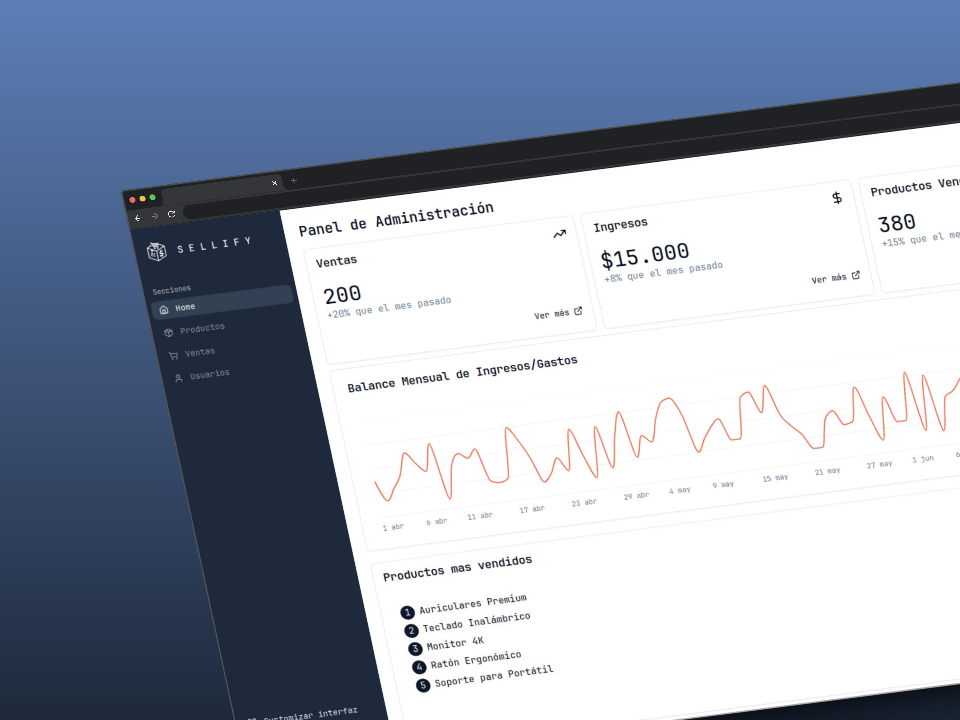
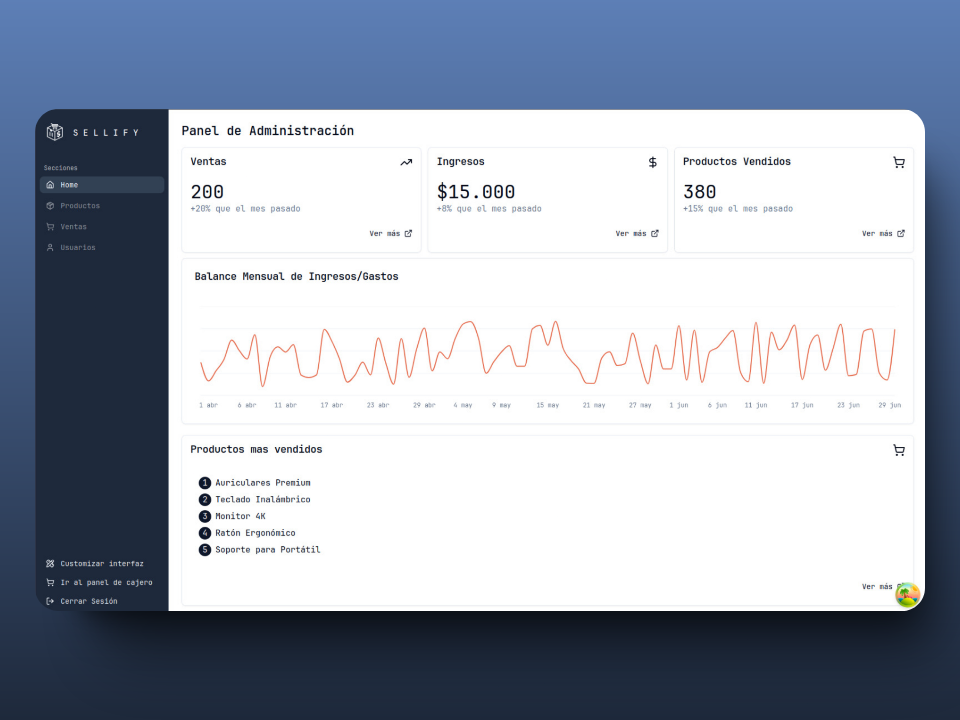
mejoras en las imagenes de proyectos + incorporacion de sellify

diff --git a/src/components/Projects/projects.ts b/src/components/Projects/projects.ts
@@ -1,6 +1,6 @@
 import { TAGS } from "./tags";
 
-interface Project {
+export interface Project {
   title: string;
   description: string;
   link: string;
@@ -8,47 +8,55 @@ interface Project {
   image: string;
   id: string;
   class: string;
-  live: boolean;
+  status: "live" | "soon" | "finished";
   tags: {
     name: string;
     class: string;
     icon: string;
-  } [];
+  }[];
 }
 
 export const projects: Project[] = [
   {
     title: "Url Shortener",
-    description: "Acortador de urls de código abierto desarrollado con fines educativos utilizando tecnologías web modernas.",
+    description:
+      "Acortador de urls de código abierto desarrollado con fines educativos utilizando tecnologías web modernas.",
     link: "https://url-shorteneer.vercel.app/",
     github: "https://github.com/vcntttt/url-shortener",
-    image: "url-shortener.png",
+    image: "url-shortenerv2.png",
     id: "url-shortener",
     class: "col-span-5",
-    live: true,
+    status: "live",
     tags: [TAGS.NEXT, TAGS.TAILWIND, TAGS.TYPESCRIPT, TAGS.PRISMA],
   },
-  // {
-  //   title: "Agenda Medica",
-  //   description: "",
-  //   link: "",
-  //   github: "",
-  //   image: "",
-  //   id: "",
-  //   class: "col-span-7",
-  //   live: false,
-  // },
-  // {
-  //   title: "Sellify",
-  //   description: "Sistema de gestión de inventario y punto de venta.",
-  //   link: "",
-  //   github: "https://github.com/vcntttt/Sellify-TI2",
-  //   image: "sellify.png",
-  //   id: "sellify",
-  //   class: "col-span-7",
-  //   live: false,
-  //   tags: [TAGS.NEXT, TAGS.TAILWIND],
-  // },
+  {
+    title: "Sellify",
+    description: "Sistema de gestión de inventario y punto de venta.",
+    link: "",
+    github: "https://github.com/vcntttt/Sellify-TI2",
+    image: "sellifyv2.png",
+    id: "sellify",
+    class: "col-span-7",
+    status: "finished",
+    tags: [
+      TAGS.REACT,
+      TAGS.TYPESCRIPT,
+      TAGS.TANSTACKQUERY,
+      TAGS.TAILWIND,
+      TAGS.SHADCN,
+    ],
+  },
+  {
+    title: "Agenda Medica",
+    description: "",
+    link: "",
+    github: "https://github.com/vcntttt/agenda-medica",
+    image: "on-develop.webp",
+    id: "",
+    class: "col-span-7",
+    status: "soon",
+    tags: [TAGS.NEXT, TAGS.TAILWIND, TAGS.TYPESCRIPT, TAGS.PRISMA, TAGS.SHADCN],
+  },
   // {
   //   title: "Recetas Sin Gluten",
   //   description: "Blog de recetas sin gluten.",
@@ -57,6 +65,6 @@ export const projects: Project[] = [
   //   image: "",
   //   id: "recetas-sin-gluten",
   //   class: "col-span-5",
-  //   live: false,
+  //   status: false,
   // },
 ];

diff --git a/src/components/Projects/tags.ts b/src/components/Projects/tags.ts
@@ -11,7 +11,7 @@ export const TAGS = {
   },
   REACT: {
     name: "React",
-    class: "bg-green-500 text-white",
+    class: "bg-green-950 text-white",
     icon: "React",
   },
   TYPESCRIPT: {
@@ -23,6 +23,11 @@ export const TAGS = {
     name: "Prisma",
     class: "bg-slate-900 text-white",
     icon: "Prisma",
+  },
+  TANSTACKQUERY: {
+    name: "TanStack Query",
+    class: "bg-red-900 text-white",
+    icon: "tanstack",
   },
   SHADCN: {
     name: "ShadCN",
